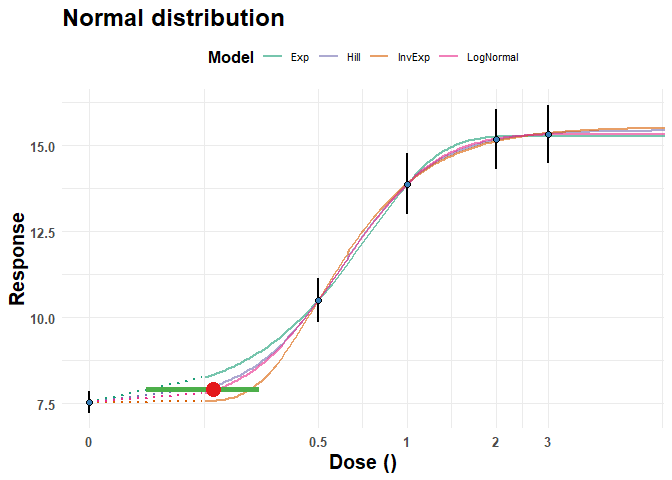
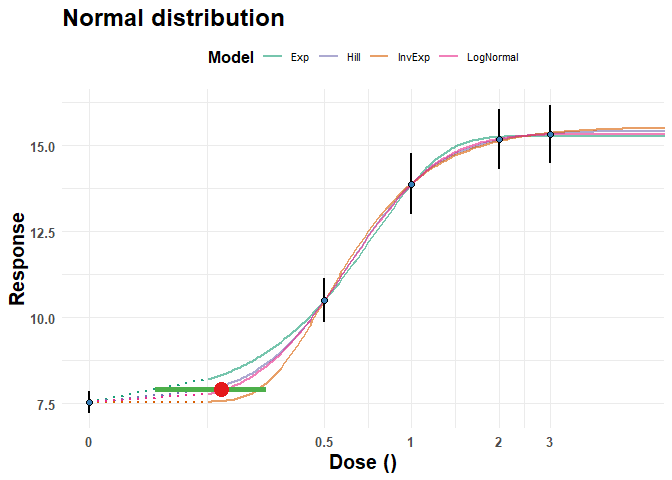
fixed issue in optimization check

diff --git a/README.md b/README.md
@@ -17,7 +17,7 @@ estimation. Its two main functions are:
 
 ## Installation
 
-You can install the latest development version (0.2.2) of the R package
+You can install the latest development version (0.2.4) of the R package
 from GitHub:
 
 ``` r
@@ -67,13 +67,13 @@ anydoseresponseN(summ.data$x, summ.data$y, summ.data$s, summ.data$n)
 #> For more on GAMLSS look at https://www.gamlss.com/
 #> Type gamlssNews() to see new features/changes/bug fixes.
 #> $bf
-#> [1] 1.337046e-63
+#> [1] 1.333663e-63
 #> 
 #> $bf.message
 #> [1] "Preliminary analysis found insufficient evidence of no dose effect (Bayes factor : 0 in favor of the NULL (no dose effect) model)."
 anydoseresponseLN(summ.data$x, summ.data$y, summ.data$s, summ.data$n)
 #> $bf
-#> [1] 8.598861e-64
+#> [1] 8.588537e-64
 #> 
 #> $bf.message
 #> [1] "Preliminary analysis found insufficient evidence of no dose effect (Bayes factor : 0 in favor of the NULL (no dose effect) model)."
